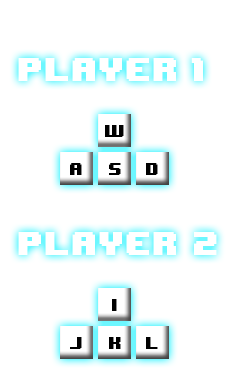
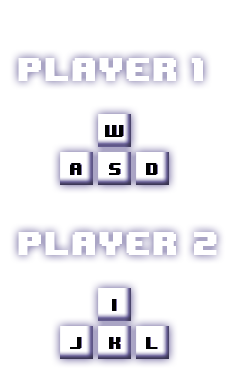
change color

diff --git a/style.css b/style.css
@@ -4,8 +4,7 @@ canvas{
     left: 15%;
     background-image: url("wall.jpg");
     background-size: cover;   
-    box-shadow: 0px 0px 27px 2px rgb(50,206,217,1);
-    animation: mymove 0.5s infinite;
+    animation: mymove 0.25s infinite alternate;
     opacity: 0.8;
 }
 body{
@@ -19,6 +18,6 @@ h2{
     color: white;
 }
 @keyframes mymove {
-    from {box-shadow: 0px 0px 27px 2px rgb(50,206,217,1);}
-    to {box-shadow: 0px 0px 27px 30px rgb(50,206,217,1);}
+    from {box-shadow: 0px 0px 27px 2px rgb(28,25,43);}
+    to {box-shadow: 0px 0px 27px 30px rgb(147,141,181);}
   }
